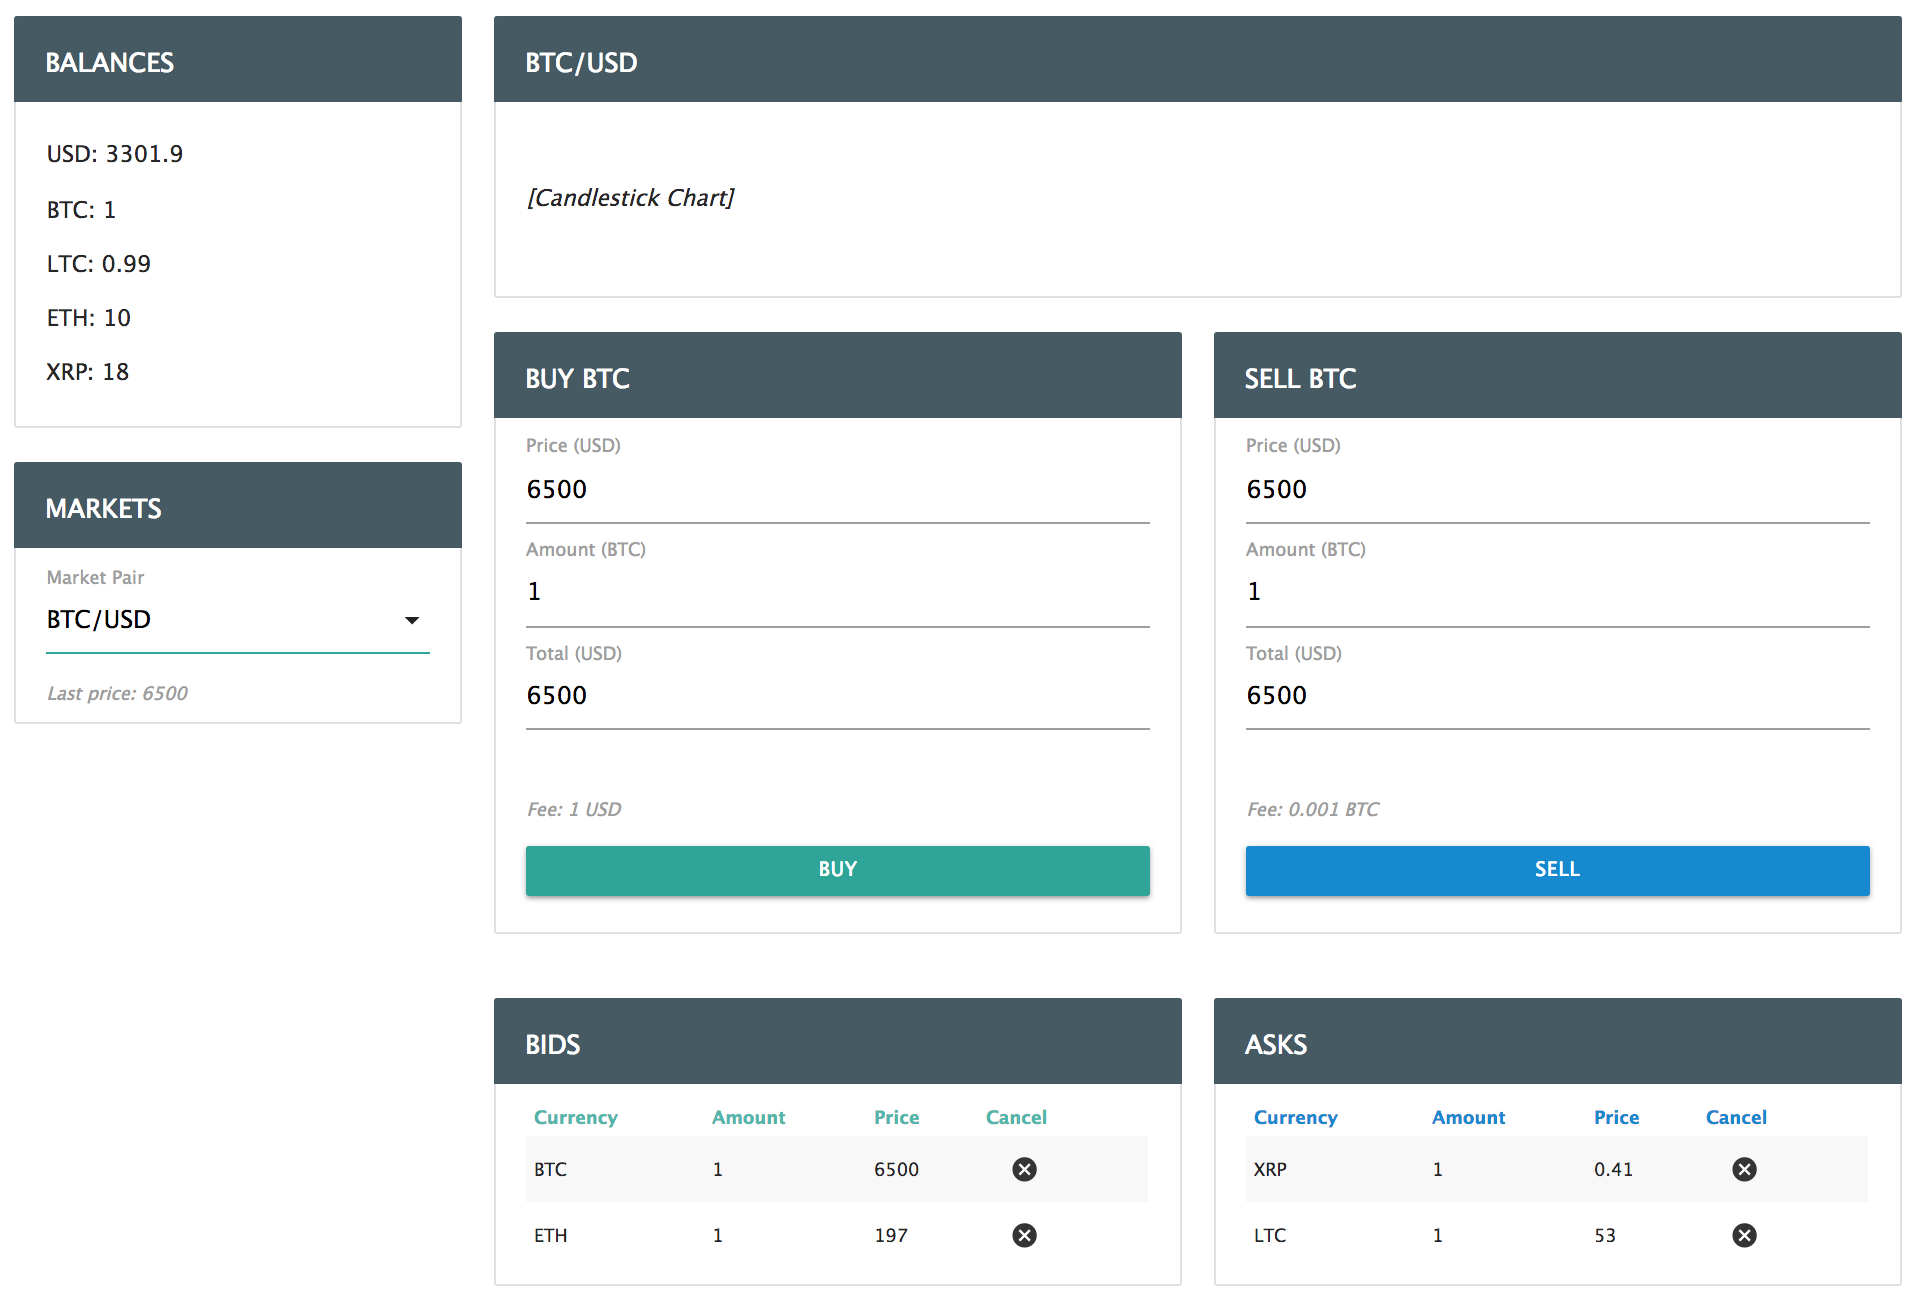
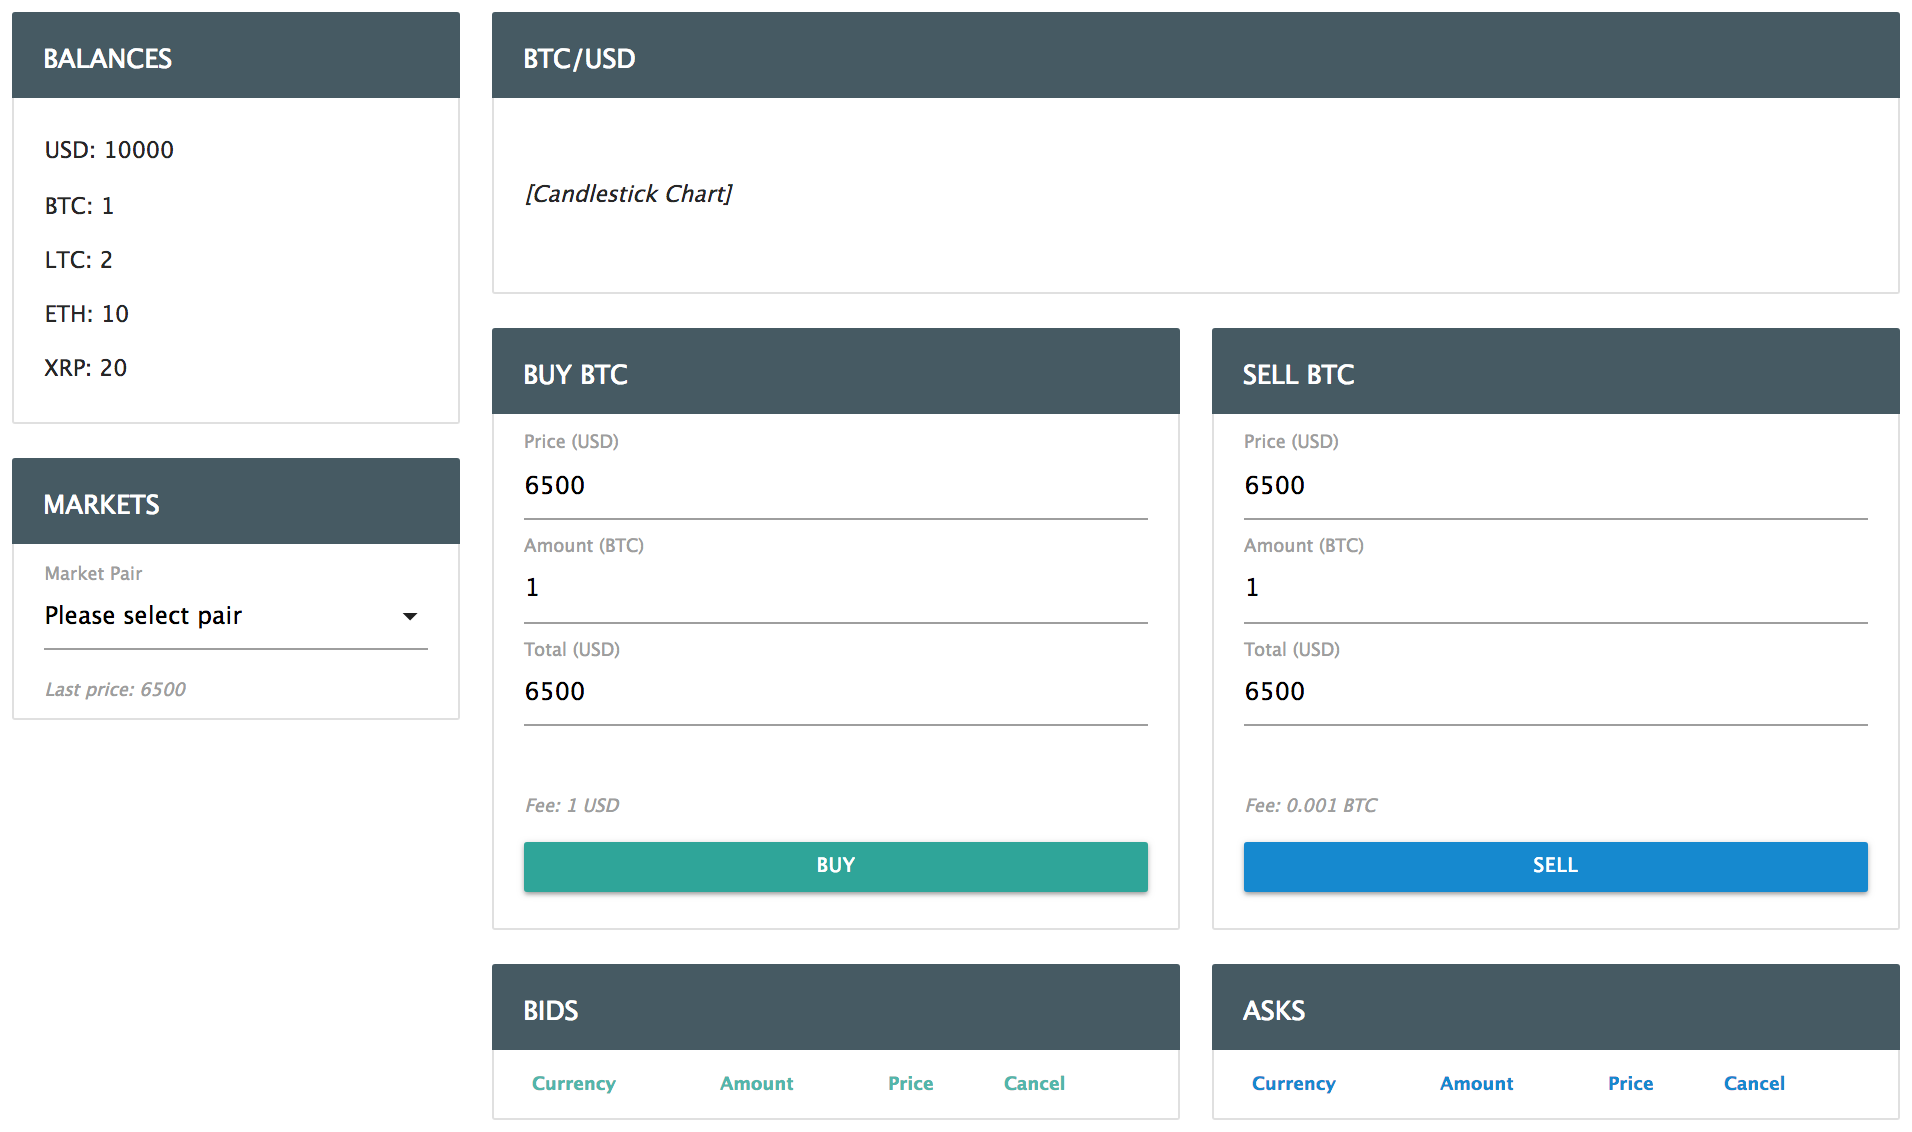
FIX: harmonise materialize margin for rows in layout

diff --git a/index.html b/index.html
@@ -16,6 +16,9 @@
 			nav .brand-logo {
 				padding-left: 15px;
 			}
+			.row.nomargin {
+				margin-bottom: 0;
+			}
 			.card.with-header {
 				border-radius: 2px;
 			}
@@ -95,7 +98,7 @@
 							</div>
 						</div>
 					</div>
-					<div id="buysell" class="row">
+					<div id="buysell" class="row nomargin">
 						<div class="col s6">
 							<div class="card with-header borders z-depth-0">
 								<div class="card-header blue-grey darken-2 white-text">
@@ -149,7 +152,7 @@
 							</div>
 						</div>
 					</div>
-					<div id="orders" class="row">
+					<div id="orders" class="row nomargin">
 						<div class="col s6">
 							<div class="card with-header borders z-depth-0">
 								<div class="card-header blue-grey darken-2 white-text">
